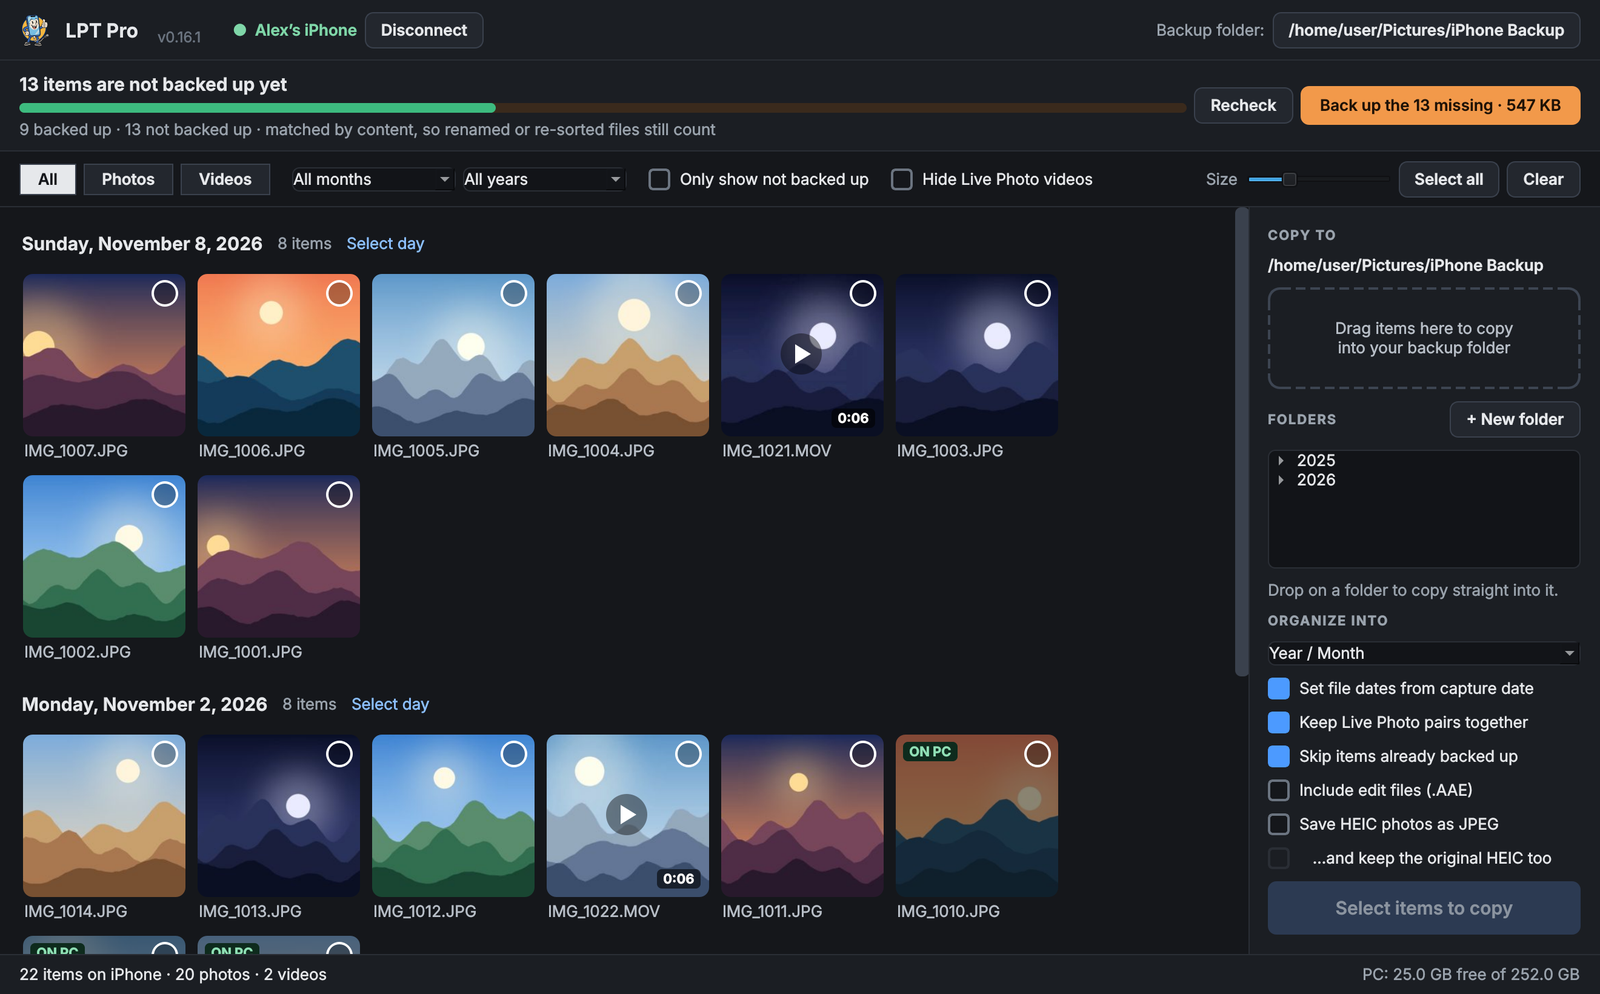
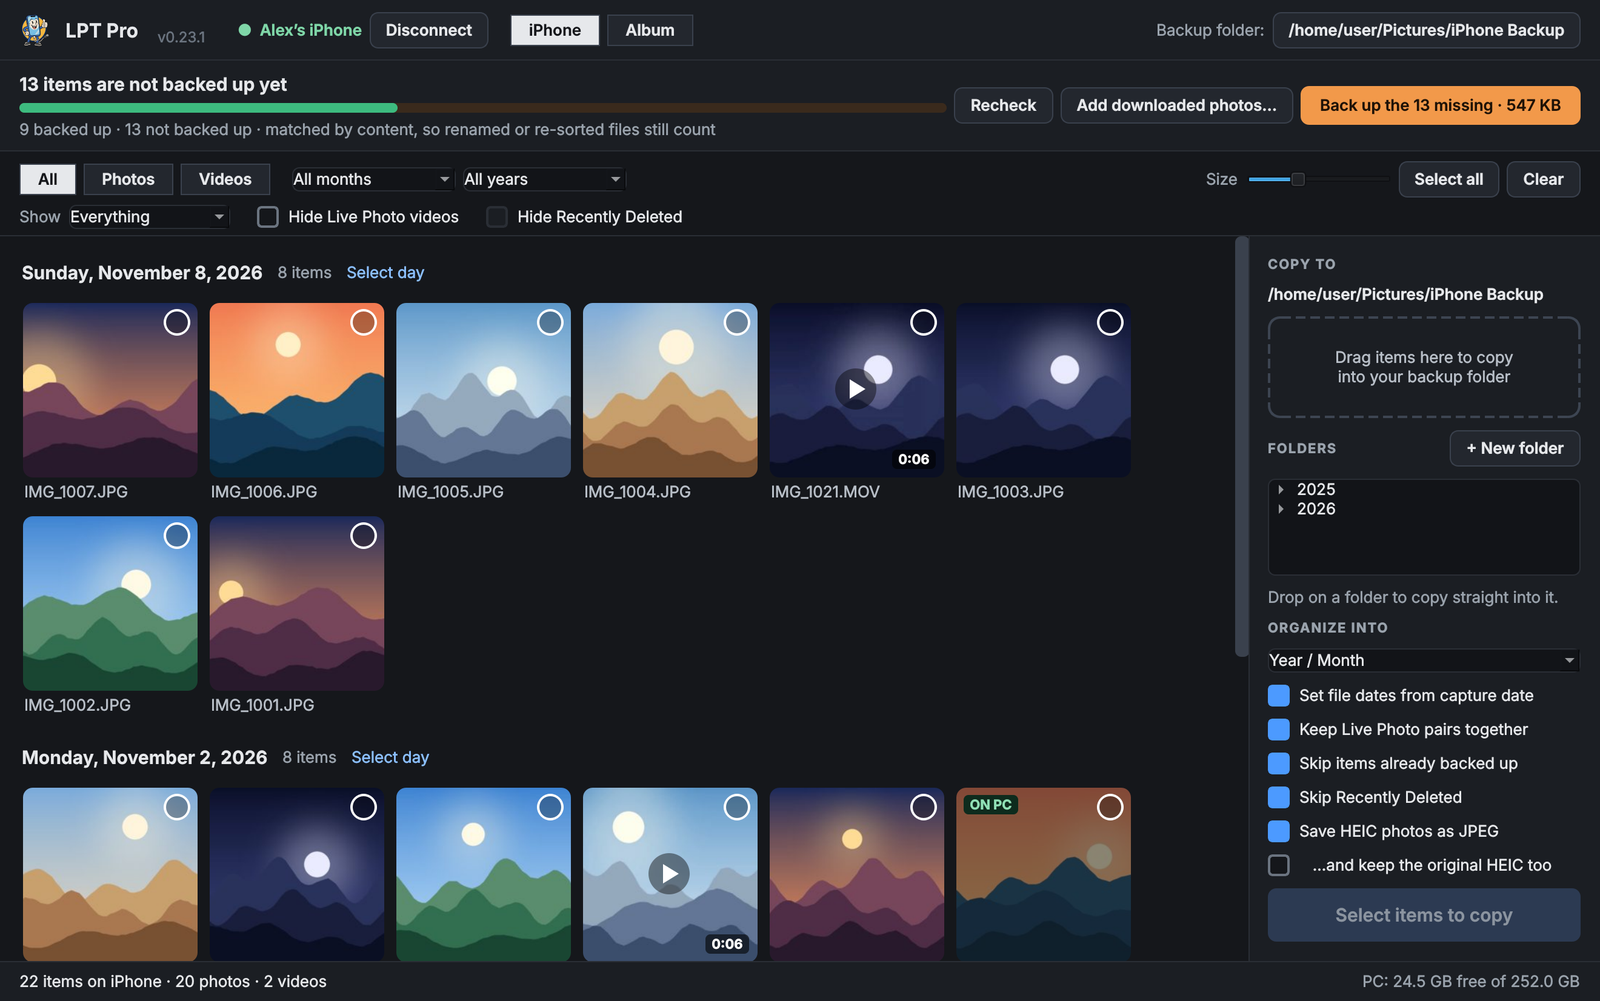
New front page

diff --git a/README.md b/README.md
@@ -10,29 +10,43 @@ Free and open source, for Windows and Linux.</p>
   <a href="https://github.com/lptpro/lpt-pro/releases/latest/download/LPT-Pro-Linux.deb"><b>⬇ Download for Linux</b></a>
 </p>
 
-<p align="center"><img src="docs/screenshot-main.png" width="900" alt="LPT Pro showing the photos on an iPhone, which ones are already on the PC, and the Back up what's missing button"></p>
+<p align="center"><img src="docs/screenshot-main.png" width="900" alt="LPT Pro in iPhone mode: the photos on an iPhone, which ones are already on the PC, and the Back up what's missing button"></p>
+<p align="center"><img src="docs/screenshot-album.png" width="900" alt="LPT Pro in Album mode: browsing the backup on the PC, with favorites marked by a star"></p>
 
 ---
 
 ## What it does
 
-- Shows everything on your iPhone in a fast grid, grouped by the day it was taken.
-- Tells you exactly what is **already backed up** on your PC and what isn't, by checking
-  the files themselves (renamed or re-sorted copies still count).
-- **Back up what's missing** with one button, sorted into folders by year and month.
-- Every copy is **verified** before it counts. A file that doesn't match is thrown away
-  and reported, never kept half-copied.
-- Keeps the original dates and photo details. HEIC photos can be saved as JPEG.
-- Plays videos and opens photos full size, straight from the phone.
-- **Album mode**: browse your whole backup on the PC, no iPhone needed. Pick a year and
-  month, open photos and videos, and right-click **Show in folder** to jump to the file.
-- **Favorites**: press **F** (or click the ★) on photos you love, then **Export favorites…**
-  copies just those into a separate folder, by date or all together, as JPEG if you like.
-  Handy for a photo book or prints. Marking favorites copies nothing until you export.
-- Recognises photos in the iPhone's **Recently Deleted** album and leaves them out by
-  default, so a pile of deleted screenshots doesn't get backed up.
-- Is honest about photos whose full-size original is **only in iCloud** (the iPhone
-  setting "Optimize iPhone Storage"), so you never think something is backed up when it isn't.
+**Back up your iPhone**
+- See everything on your iPhone in a fast grid, grouped by the day each photo was taken.
+- Know exactly what's **already on your PC** and what isn't. LPT Pro checks the files
+  themselves, so renamed or re-sorted copies still count.
+- **Back up what's missing** with one button, sorted into Year / Month folders.
+- Every copy is **verified** before it counts. A file that doesn't match is thrown away and
+  reported, never kept half-copied.
+- Original dates and photo details are kept. HEIC photos can be saved as JPEG.
+- **Show** just what you need: everything, what's on this iPhone, what's only in iCloud, or
+  what isn't backed up yet.
+
+**Honest about what's really on the phone**
+- Photos whose full-size original is **only in iCloud** ("Optimize iPhone Storage") are shown
+  with the iPhone's preview and clearly tagged, so you never think they're backed up when
+  they aren't. LPT Pro tells you how to get them.
+- Photos in **Recently Deleted** are hidden and skipped by default, so a pile of deleted
+  screenshots doesn't get backed up (and never flashes up on screen).
+
+**Bring in photos from elsewhere**
+- **Add downloaded photos…** sorts a folder or zip files (from iCloud, an old phone, a camera
+  or another backup) into your backup by date, skipping anything already there.
+- Works directly with the **iCloud Photos folder of iCloud for Windows**: previews are
+  downloaded as they're copied, and their space can be freed again afterwards.
+
+**Enjoy your backup**
+- **Album mode**: browse the whole backup on your PC, no iPhone needed. Pick a year and
+  month, open photos and play videos, right-click **Show in folder** to jump to the file.
+- **Favorites**: press **F** (or click the ★), then **Export favorites…** copies just those
+  into a separate folder, by date or all together, as JPEG if you like. Handy for a photo
+  book or prints. Marking favorites copies nothing until you export.
 
 ## What it never does
 
